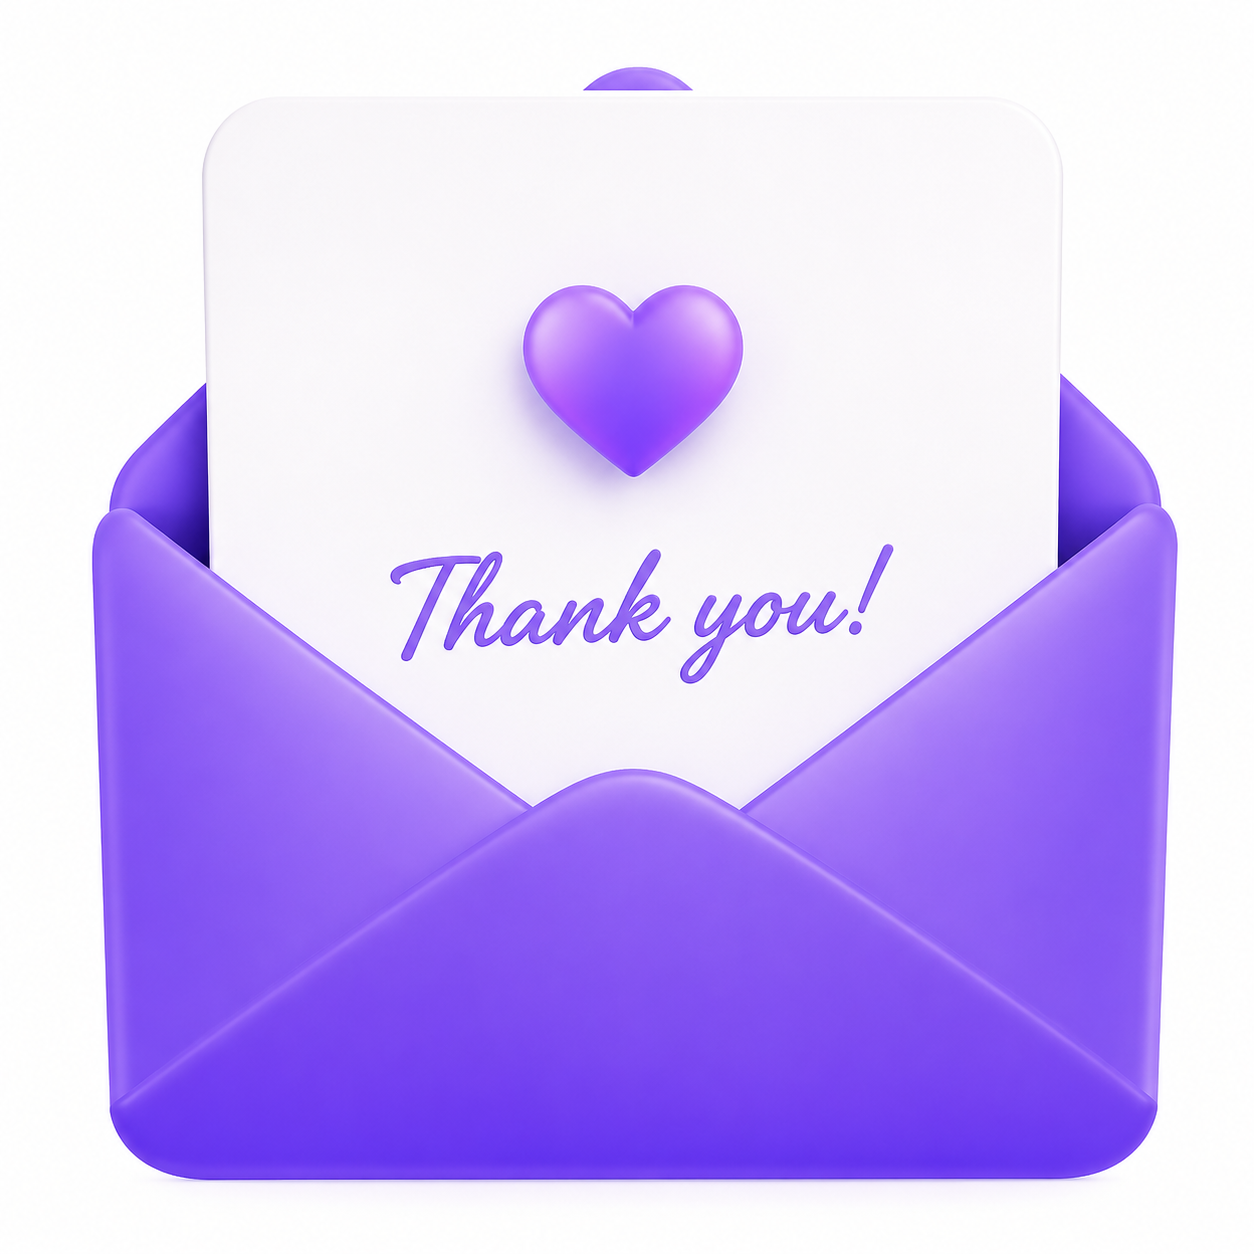
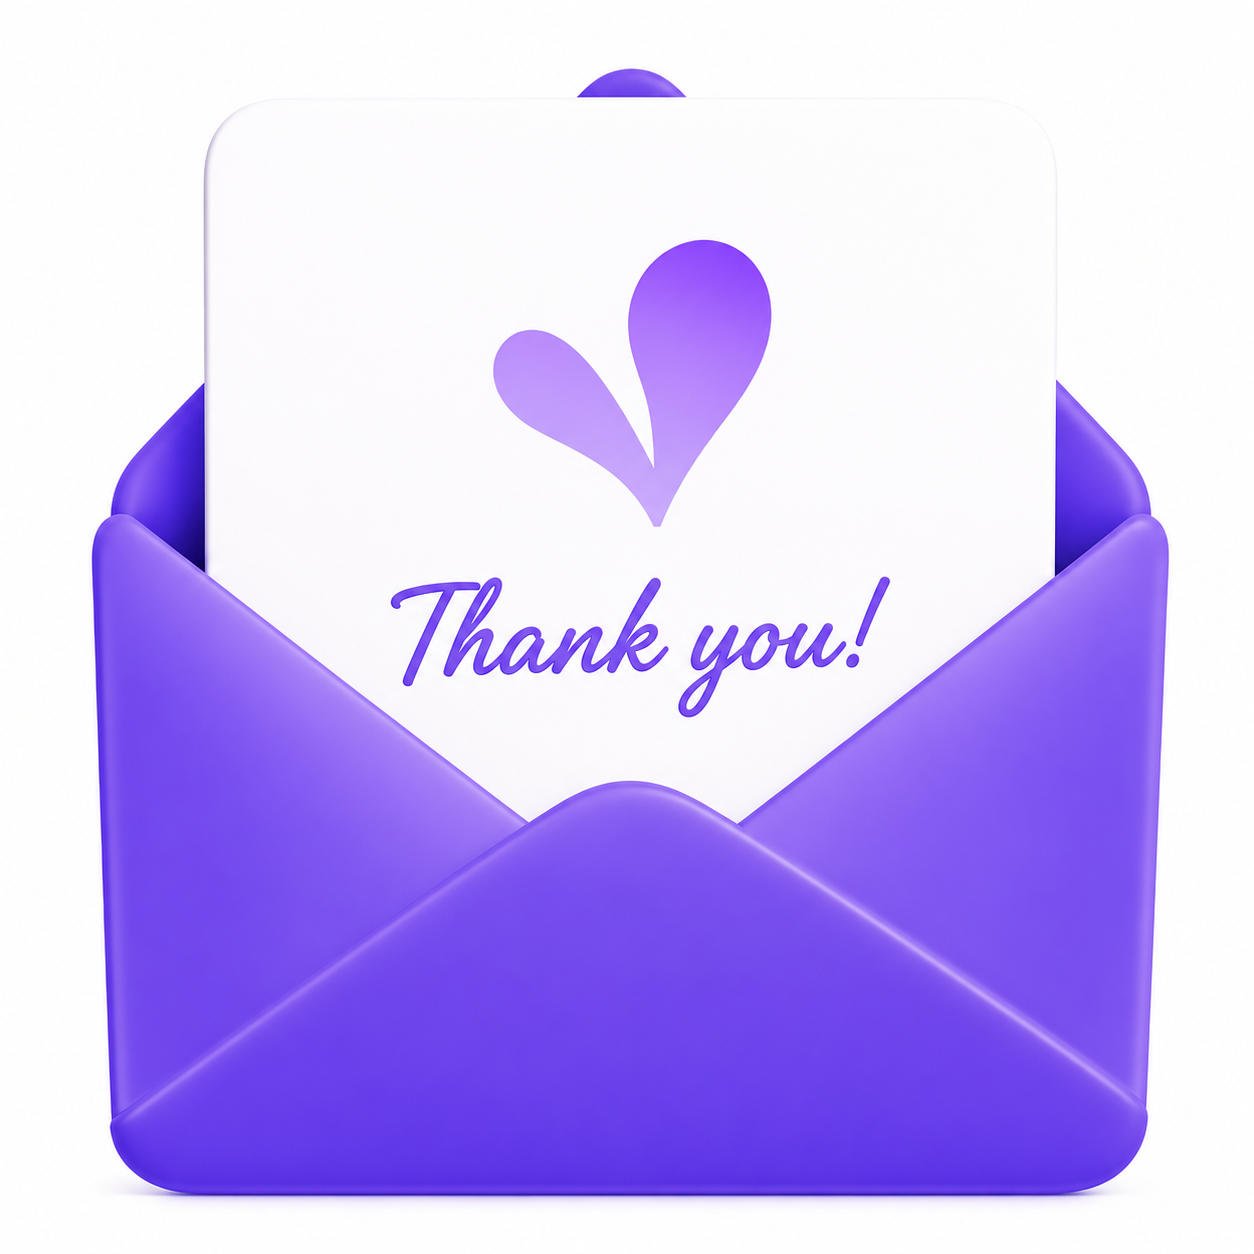
minor changes

diff --git a/src/app/thankyou/page.tsx b/src/app/thankyou/page.tsx
@@ -28,36 +28,53 @@ const confettiItems = [
    ICONS
    ══════════════════════════════════════════════════ */
 
-/** 1 — Medal / winner badge with star + ribbon tails */
+/** 1 — Minimal spark/starburst outline for early launch / first access */
 const IconMedal = () => (
-  <svg width="30" height="30" viewBox="0 0 30 30" fill="none"
-    stroke="white" strokeWidth={1.7} strokeLinecap="round" strokeLinejoin="round">
-    <circle cx="15" cy="12" r="7.5" />
-    {/* 5-point star */}
-    <path d="M15 8.5l1.3 2.7h2.8l-2.3 1.8.9 2.8-2.7-1.9-2.7 1.9.9-2.8-2.3-1.8h2.8z" strokeWidth={1.3} />
-    {/* Left ribbon */}
-    <path d="M10.5 18l-2 7 6.5-2.5" />
-    {/* Right ribbon */}
-    <path d="M19.5 18l2 7-6.5-2.5" />
-  </svg>
+<svg
+  width="30"
+  height="30"
+  viewBox="0 0 30 30"
+  fill="none"
+  stroke="white"
+  strokeWidth={1.9}
+  strokeLinecap="round"
+  strokeLinejoin="round"
+>
+  {/* party popper cone */}
+  <path d="M8 20l8-8" />
+  <path d="M10 22l10-10" />
+  <path d="M8 20l2 2 10-10-2-2z" />
+
+  {/* confetti */}
+  <path d="M18 6v3" />
+  <path d="M23 9l-2 2" />
+  <path d="M24 15h-3" />
+  <path d="M9 7l1.8 1.8" />
+  <path d="M14 4l.8 2.5" />
+
+  {/* tiny spark */}
+  <circle cx="22.5" cy="20.5" r="1.2" />
+</svg>
 );
 
-/** 2 — Classic speech bubble with bottom-left tail (chat icon) */
+/** 2 — Minimal pen/edit outline for contribution and shaping */
 const IconChat = () => (
   <svg width="30" height="30" viewBox="0 0 30 30" fill="none"
     stroke="white" strokeWidth={1.7} strokeLinecap="round" strokeLinejoin="round">
-    {/* Rounded rectangle body */}
-    <path d="M4 5h22a2 2 0 012 2v12a2 2 0 01-2 2H10l-6 4V7a2 2 0 012-2z" />
+    <path d="M9 20.5l1.1-4.2 8.9-8.9a1.8 1.8 0 0 1 2.6 0l1.1 1.1a1.8 1.8 0 0 1 0 2.6l-8.9 8.9L9 20.5z" />
+    <path d="M17.5 7.9l4.6 4.6" />
+    <path d="M8.7 21.3l3.2-.8" />
   </svg>
 );
 
-/** 3 — Concentric circles target (bullseye) */
+/** 3 — Minimal gift box outline for rewards and perks */
 const IconTarget = () => (
   <svg width="30" height="30" viewBox="0 0 30 30" fill="none"
     stroke="white" strokeWidth={1.7} strokeLinecap="round" strokeLinejoin="round">
-    <circle cx="15" cy="15" r="12" />
-    <circle cx="15" cy="15" r="7.5" />
-    <circle cx="15" cy="15" r="3" fill="white" stroke="none" />
+    <path d="M6.5 13.2h17v10.3c0 .9-.7 1.6-1.6 1.6H8.1c-.9 0-1.6-.7-1.6-1.6V13.2z" />
+    <path d="M5.9 10.2h18.2a1.2 1.2 0 0 1 1.2 1.2v1.8H4.7v-1.8a1.2 1.2 0 0 1 1.2-1.2z" />
+    <path d="M15 10.2v14.9" />
+    <path d="M15 10.2c0-2.3-1.4-3.8-3.2-3.8-1.6 0-2.9 1.2-2.9 2.8 0 1.7 1.2 2.8 3 2.8H15zm0 0c0-2.3 1.4-3.8 3.2-3.8 1.6 0 2.9 1.2 2.9 2.8 0 1.7-1.2 2.8-3 2.8H15" />
   </svg>
 );
 
@@ -96,7 +113,22 @@ const ThankYou: React.FC = () => {
   return (
     <>
       <style>{`
-        @import url('https://fonts.googleapis.com/css2?family=Inter:wght@400;500;600;700;800&display=swap');
+        @font-face {
+          font-family: 'RetroVintage';
+          src: url('/fonts/retro-vintage/RetroVintage-Regular.woff2') format('woff2'),
+               url('/fonts/retro-vintage/RetroVintage-Regular.woff') format('woff');
+          font-weight: 400;
+          font-style: normal;
+          font-display: swap;
+        }
+        @font-face {
+          font-family: 'RetroVintage';
+          src: url('/fonts/retro-vintage/RetroVintage-Shadow.woff2') format('woff2'),
+               url('/fonts/retro-vintage/RetroVintage-Shadow.woff') format('woff');
+          font-weight: 700;
+          font-style: normal;
+          font-display: swap;
+        }
         *, *::before, *::after { box-sizing: border-box; margin: 0; padding: 0; }
 
         .ty-root {
@@ -108,6 +140,10 @@ const ThankYou: React.FC = () => {
           color: #1f2937;
           -webkit-font-smoothing: antialiased;
         }
+
+        /* Retro vintage font helper */
+        .ty-retro { font-family: 'RetroVintage', serif; font-weight: 400; font-style: normal; -webkit-font-smoothing: antialiased; }
+        .ty-retro-heading { font-weight: 500; display: inline-block; font-size: calc(1em + 10px); line-height: inherit;margin-top: 5px; vertical-align: baseline; }
 
         .ty-container {
           max-width: 700px;
@@ -295,17 +331,17 @@ const ThankYou: React.FC = () => {
 
           {/* ── Hero ── */}
           <section className="ty-hero">
-            <div className="ty-pill">Welcome to Sparkeefy! 🎉</div>
+            
             <h1 className="ty-h1">
-              Thank you for believing <br />
-              <span>in Sparkeefy!</span>
+              Welcome to <br />
+              <span className="ty-retro ty-retro-heading">Sparkeefy!</span>
             </h1>
             {/* Line from img 2 */}
             <p className="ty-subtitle">The app that makes relationships feel effortless</p>
             {/* Body from img 2 */}
             <p className="ty-body">
-              You're officially in consideration for Sparkeefy's first group of early users.
-              People joining early help shape what Sparkeefy becomes.
+              You're officially in consideration for <span className="ty-retro">Sparkeefy</span>'s first group of early users.
+              People joining early help shape what <span className="ty-retro">Sparkeefy</span> becomes.
             </p>
           </section>
 
@@ -368,7 +404,7 @@ const ThankYou: React.FC = () => {
                 <div className="ty-prop-icon"><IconMedal /></div>
                 <div className="ty-prop-text">
                   <p className="ty-prop-title">Early Access</p>
-                  <p className="ty-prop-desc">Get Sparkeefy before everyone else</p>
+                  <p className="ty-prop-desc">Get <span className="ty-retro">Sparkeefy</span> before everyone else</p>
                 </div>
               </div>
 
@@ -376,7 +412,7 @@ const ThankYou: React.FC = () => {
               <div className="ty-prop">
                 <div className="ty-prop-icon"><IconChat /></div>
                 <div className="ty-prop-text">
-                  <p className="ty-prop-title">Shape Sparkeefy</p>
+                  <p className="ty-prop-title">Shape <span className="ty-retro">Sparkeefy</span></p>
                   <p className="ty-prop-desc">Share feedback that drives real change</p>
                 </div>
               </div>
@@ -386,7 +422,7 @@ const ThankYou: React.FC = () => {
                 <div className="ty-prop-icon"><IconTarget /></div>
                 <div className="ty-prop-text">
                   <p className="ty-prop-title">Exclusive Perks</p>
-                  <p className="ty-prop-desc">3 months of Sparkeefy Pro + exclusive early access benefits</p>
+                  <p className="ty-prop-desc">3 months of <span className="ty-retro">Sparkeefy</span> Pro + exclusive early access benefits</p>
                 </div>
               </div>
 
@@ -400,7 +436,7 @@ const ThankYou: React.FC = () => {
               <div>
                 {/* Updated from img 2 */}
                 <p className="ty-discord-title">Unlock Your Community Access</p>
-                <p className="ty-discord-sub">Meet other early users, share feedback, get sneak peeks, and help us build Sparkeefy in public - together.</p>
+                <p className="ty-discord-sub">Meet other early users, share feedback, get sneak peeks, and help us build <span className="ty-retro">Sparkeefy</span> in public - together.</p>
               </div>
             </div>
             <a href="https://discord.gg/jdJEFcpPE" className="ty-discord-btn">Join Discord</a>
@@ -410,7 +446,7 @@ const ThankYou: React.FC = () => {
           <footer className="ty-footer">
             <div className="ty-footer-box">
               <p className="ty-footer-title">Keep an eye on your emails 👀</p>
-              <p className="ty-footer-sub">Your Sparkeefy invite could be next.</p>
+              <p className="ty-footer-sub">Your <span className="ty-retro">Sparkeefy</span> invite could be next.</p>
             </div>
           </footer>
 
